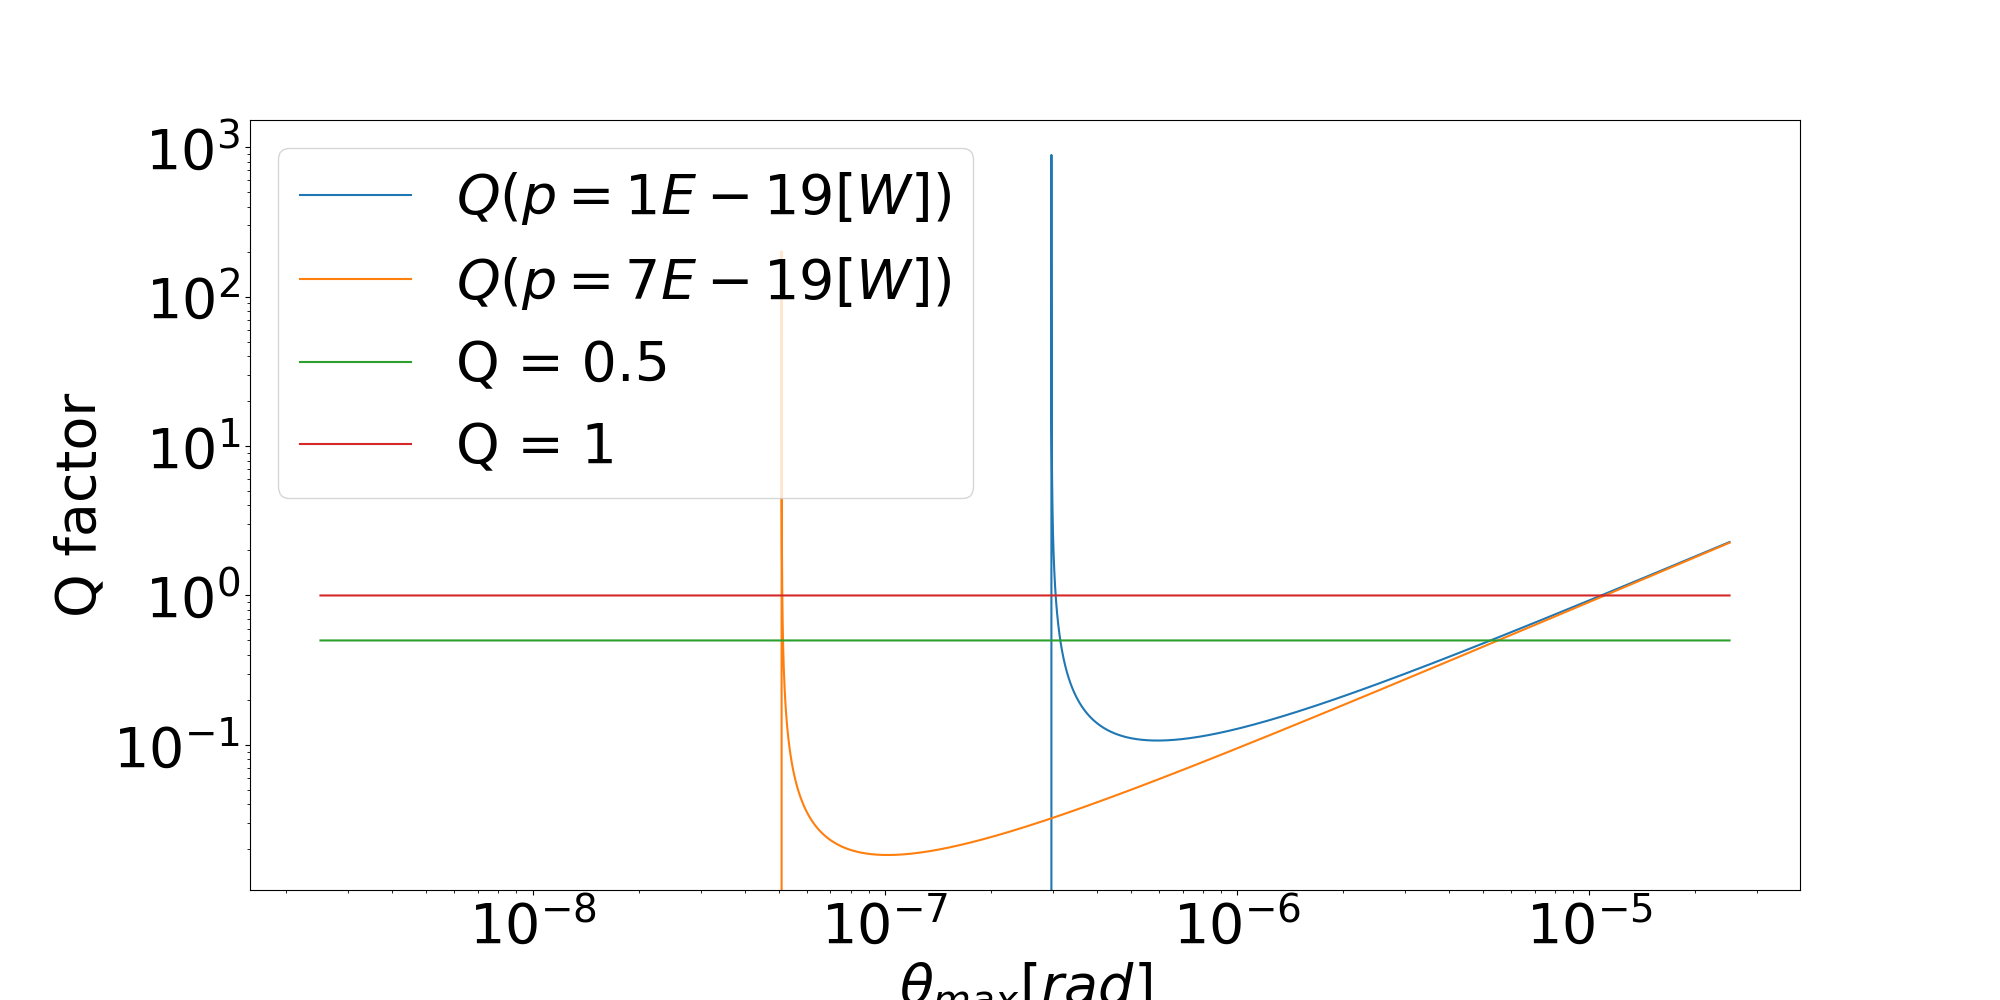
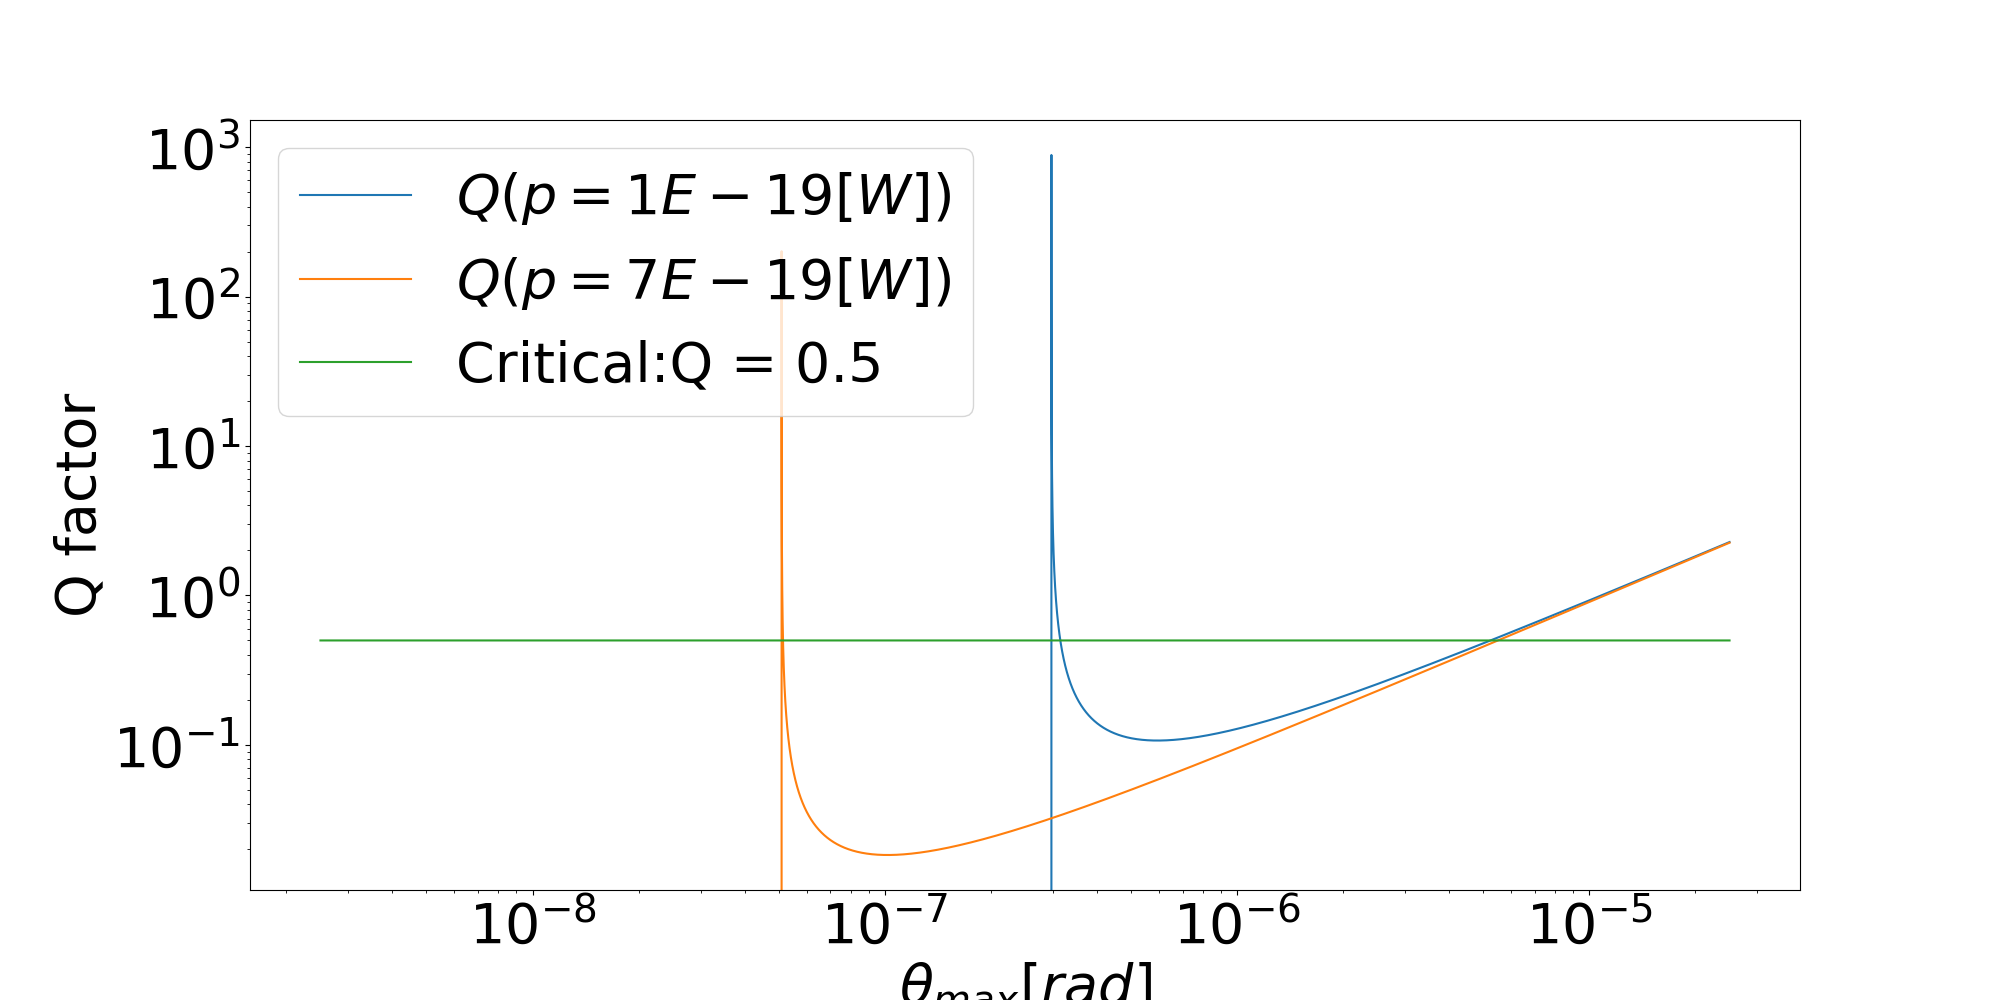
auto

Changed region(s): [[0.217, 0.341, 0.434, 0.403], [0.217, 0.403, 0.31, 0.465]]

diff --git a/python/Q factor.py b/python/Q factor.py
@@ -31,7 +31,7 @@ def Q(p=1E-18, ones = False):
         ones = np.ones(theta.shape[0])
         
         plt.plot(theta,ones*0.5)
-        plt.plot(theta,ones*1)
+        # plt.plot(theta,ones*0)
     # plt.plot(theta,ones*1e-9)
     
     plt.yscale('log')
@@ -40,7 +40,7 @@ Q(p=7E-19 )
 Q(p=1.2E-19,ones=True )
 # Q(p=4.4E-25,ones=True )
 
-fonts_define(r'$\theta_{max} [rad]$','Q factor',[r'$Q(p=1E-19[W])$',r'$Q(p=7E-19[W])$','Q = 0.5','Q = 1'],font=40)
+fonts_define(r'$\theta_{max} [rad]$','Q factor',[r'$Q(p=1E-19[W])$',r'$Q(p=7E-19[W])$','Critical:Q = 0.5'],font=40)
 
 plt.savefig('Q factor.png')
         
